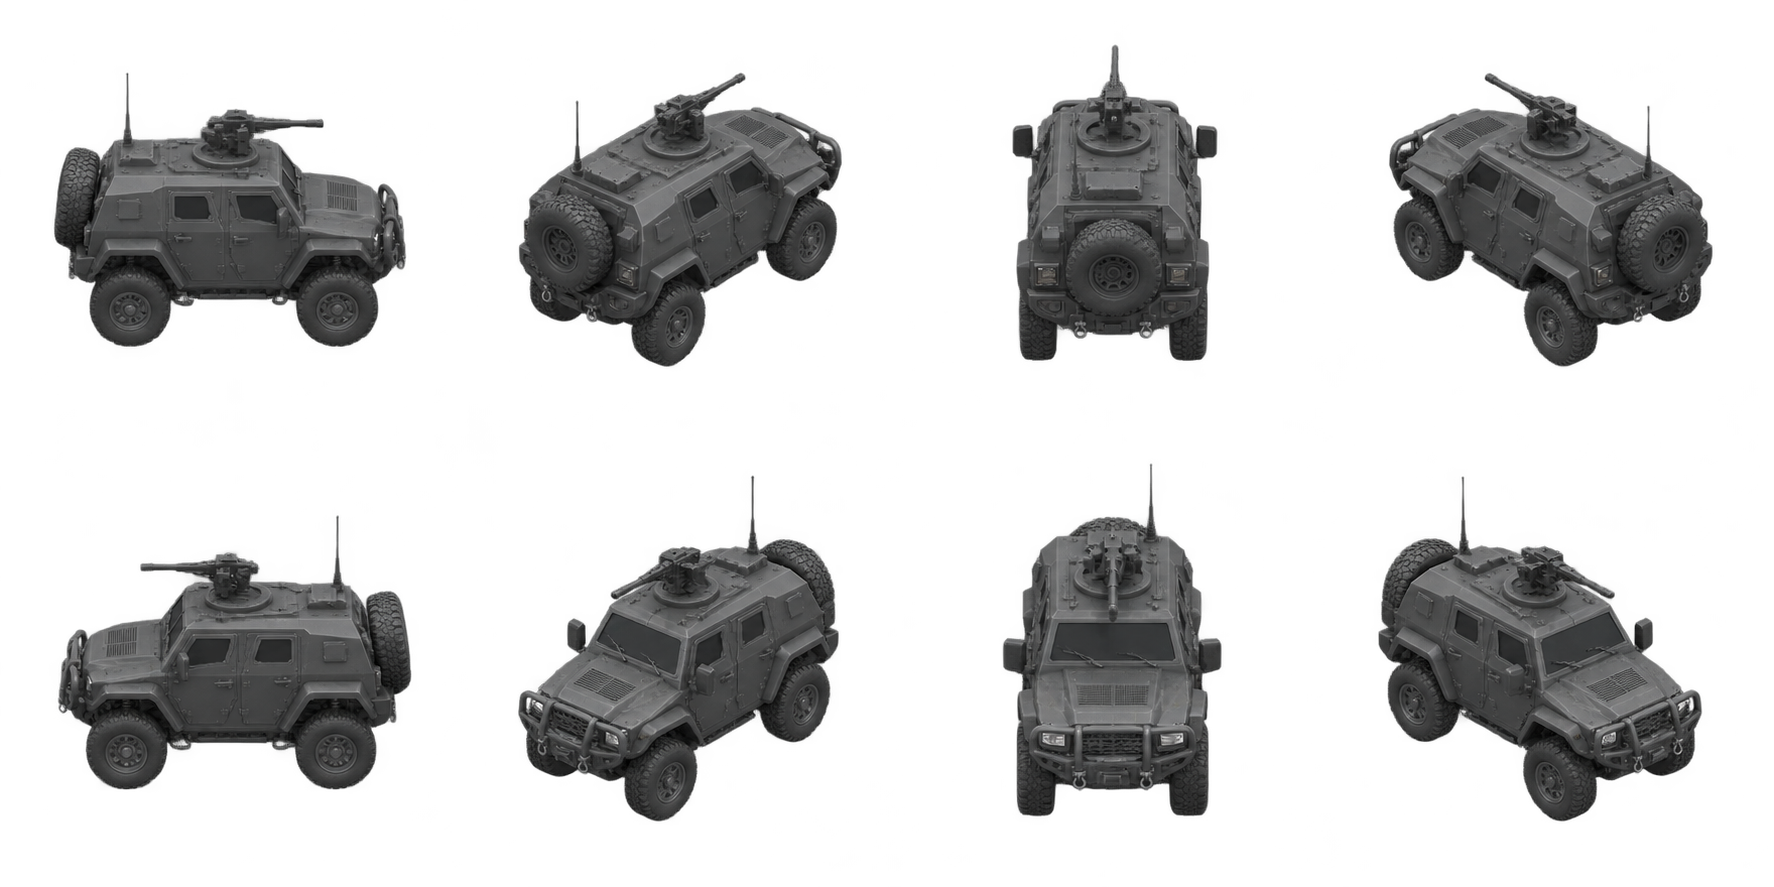
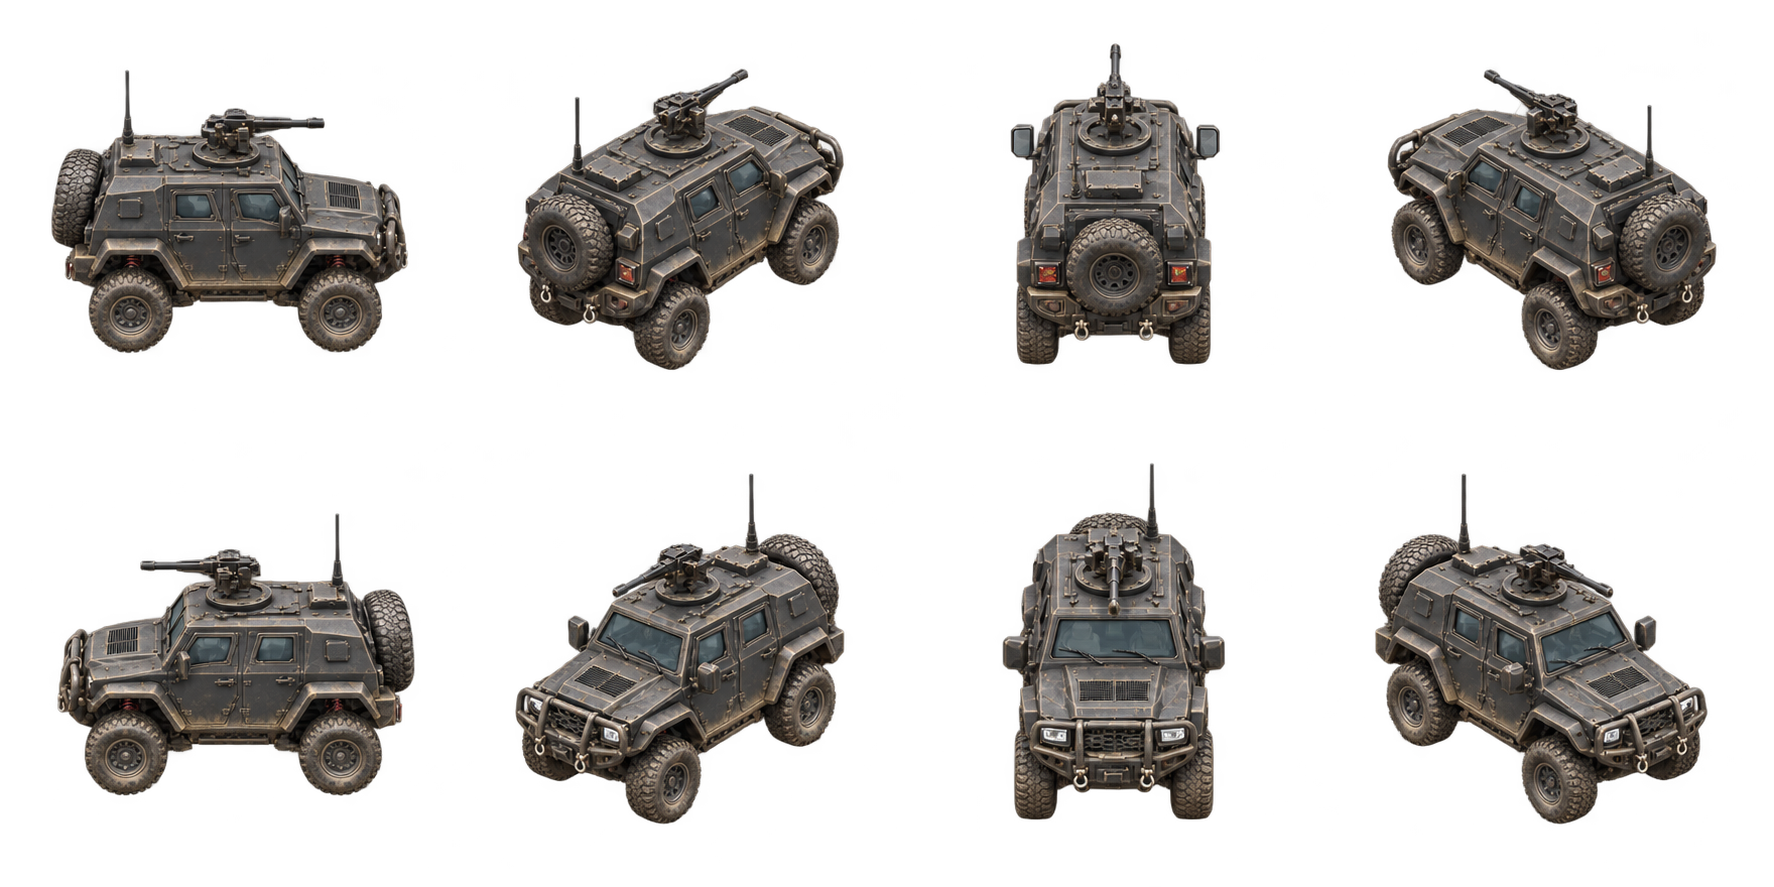
v6.32: 更新侦察车图集并诊断接触影

diff --git a/DesertFrontline/GameScene.swift b/DesertFrontline/GameScene.swift
@@ -3604,8 +3604,12 @@ final class GameScene: SKScene {
         guard let body = unit.artworkNode, let shadow = unit.groundContactShadow,
               let frame = groundContactFrame(for: unit), let texture = groundContactTexture else { return false }
         let mirror: CGFloat = unit.node.xScale < 0 ? -1 : 1
+        // SpriteKit can round geometry when it stores node properties; compare
+        // sub-pixel coordinates with a small tolerance instead of exact equality.
+        let close: (CGFloat, CGFloat) -> Bool = { abs($0 - $1) < 0.01 }
         return shadow.parent === body.parent && shadow.texture === texture && !shadow.isHidden && shadow.alpha == 1 &&
-            shadow.size == frame.size && shadow.position == CGPoint(x: frame.midX * mirror, y: frame.midY) &&
+            close(shadow.size.width, frame.width) && close(shadow.size.height, frame.height) &&
+            close(shadow.position.x, frame.midX * mirror) && close(shadow.position.y, frame.midY) &&
             shadow.xScale * unit.node.xScale == 1 && shadow.yScale == 1 && shadow.zRotation == 0 && shadow.zPosition == -2 &&
             frame.minX.isFinite && frame.minY.isFinite && frame.width > 0 && frame.width <= body.size.width * 1.02 &&
             frame.height >= 4 && frame.height <= 10 && shadow.parent?.children.filter({ $0.name == "ground-contact" }).count == 1 &&
@@ -3620,6 +3624,7 @@ final class GameScene: SKScene {
         ciGroundContactMask = 0
         let kinds: [EntityKind] = [.tank] + directionalGroundKinds
         var restored = true
+        var reportedFailure = false
         for (kindIndex, kind) in kinds.enumerated() {
             let live = entities.values.sorted { $0.id < $1.id }.first { $0.isAlive && $0.kind == kind }
             let unit = live ?? GameEntity(id: -1, kind: kind, faction: .player, position: .zero)
@@ -3636,6 +3641,10 @@ final class GameScene: SKScene {
                     unit.node.xScale = sign
                     let direction = CGPoint(x: cos(CGFloat(index) * .pi / 4), y: sin(CGFloat(index) * .pi / 4))
                     updateDirectionalArtworkFacing(unit, direction: direction, textures: textures)
+                    if !reportedFailure && !groundContactPoseValid(unit), let frame = groundContactFrame(for: unit) {
+                        reportedFailure = true
+                        print("Ground contact invalid: kind=\(kind) heading=\(index) sign=\(sign) frame=\(frame) size=\(shadow.size) position=\(shadow.position) scale=\(shadow.xScale),\(unit.node.xScale) hidden=\(shadow.isHidden) alpha=\(shadow.alpha) z=\(shadow.zPosition) sameParent=\(shadow.parent === body.parent) sameTexture=\(shadow.texture === groundContactTexture) baseHidden=\(String(describing: body.parent?.childNode(withName: "base-shadow")?.isHidden))")
+                    }
                     valid = valid && unit.artworkHeading == index && groundContactPoseValid(unit) &&
                         shadow === unit.groundContactShadow && shadow.parent?.children.count == nodeCount &&
                         body.position == .zero && body.anchorPoint == CGPoint(x: 0.5, y: 0.25) && unit.node.position == saved.7
@@ -3645,8 +3654,10 @@ final class GameScene: SKScene {
             unit.artworkHeading = saved.0
             unit.node.xScale = saved.1
             updateDirectionalArtworkFacing(unit, direction: nil, textures: textures)
-            restored = restored && body.texture === saved.2 && body.xScale == saved.3 && shadow.position == saved.4 &&
-                shadow.size == saved.5 && shadow.xScale == saved.6 && unit.node.position == saved.7 && groundContactPoseValid(unit)
+            restored = restored && body.texture === saved.2 && body.xScale == saved.3 &&
+                abs(shadow.position.x - saved.4.x) < 0.01 && abs(shadow.position.y - saved.4.y) < 0.01 &&
+                abs(shadow.size.width - saved.5.width) < 0.01 && abs(shadow.size.height - saved.5.height) < 0.01 &&
+                shadow.xScale == saved.6 && unit.node.position == saved.7 && groundContactPoseValid(unit)
         }
         if let image = groundContactTexture?.cgImage(), image.width == 64, image.height == 64 {
             // The generated texture has transparent corners and a dark nonempty core.

diff --git a/md/art/v6.32-scout-art.md b/md/art/v6.32-scout-art.md
@@ -1,0 +1,7 @@
+# v6.32 侦察车八方向图
+
+使用内置 imagegen，以此前项目 `scout-eight.png` 为构图与方向参照生成透明 PNG；原始输出保存在 `/Users/a114514/.codex/generated_images/1/v6.32-scout-eight.png`，项目图与之逐字节一致。沿用四列两行、E/NE/N/NW/W/SW/S/SE、82 世界单位格和原接地点；独立单幅与游戏逻辑不变。尚待本版本云端原生画面验证。
+
+提示词：
+
+> Use case: stylized-concept. Asset: transparent 4 by 2 sprite atlas for an isometric desert RTS. Reference is the exact grid and orientation guide: same armored scout vehicle in all eight cells, preserve row-by-row heading, camera, scale, centered placement and generous empty margins. Re-render as premium physically based game art: dark graphite armored 4x4, believable thick rubber tires, detailed suspension, precision armor seams, fine sand dust and worn edges, clear windows, subtle roof machine gun. Cohesive neutral daylight, crisp readable silhouette at small game scale. No baked ground shadow, no text, no labels, no border, no other objects. True transparent background.
